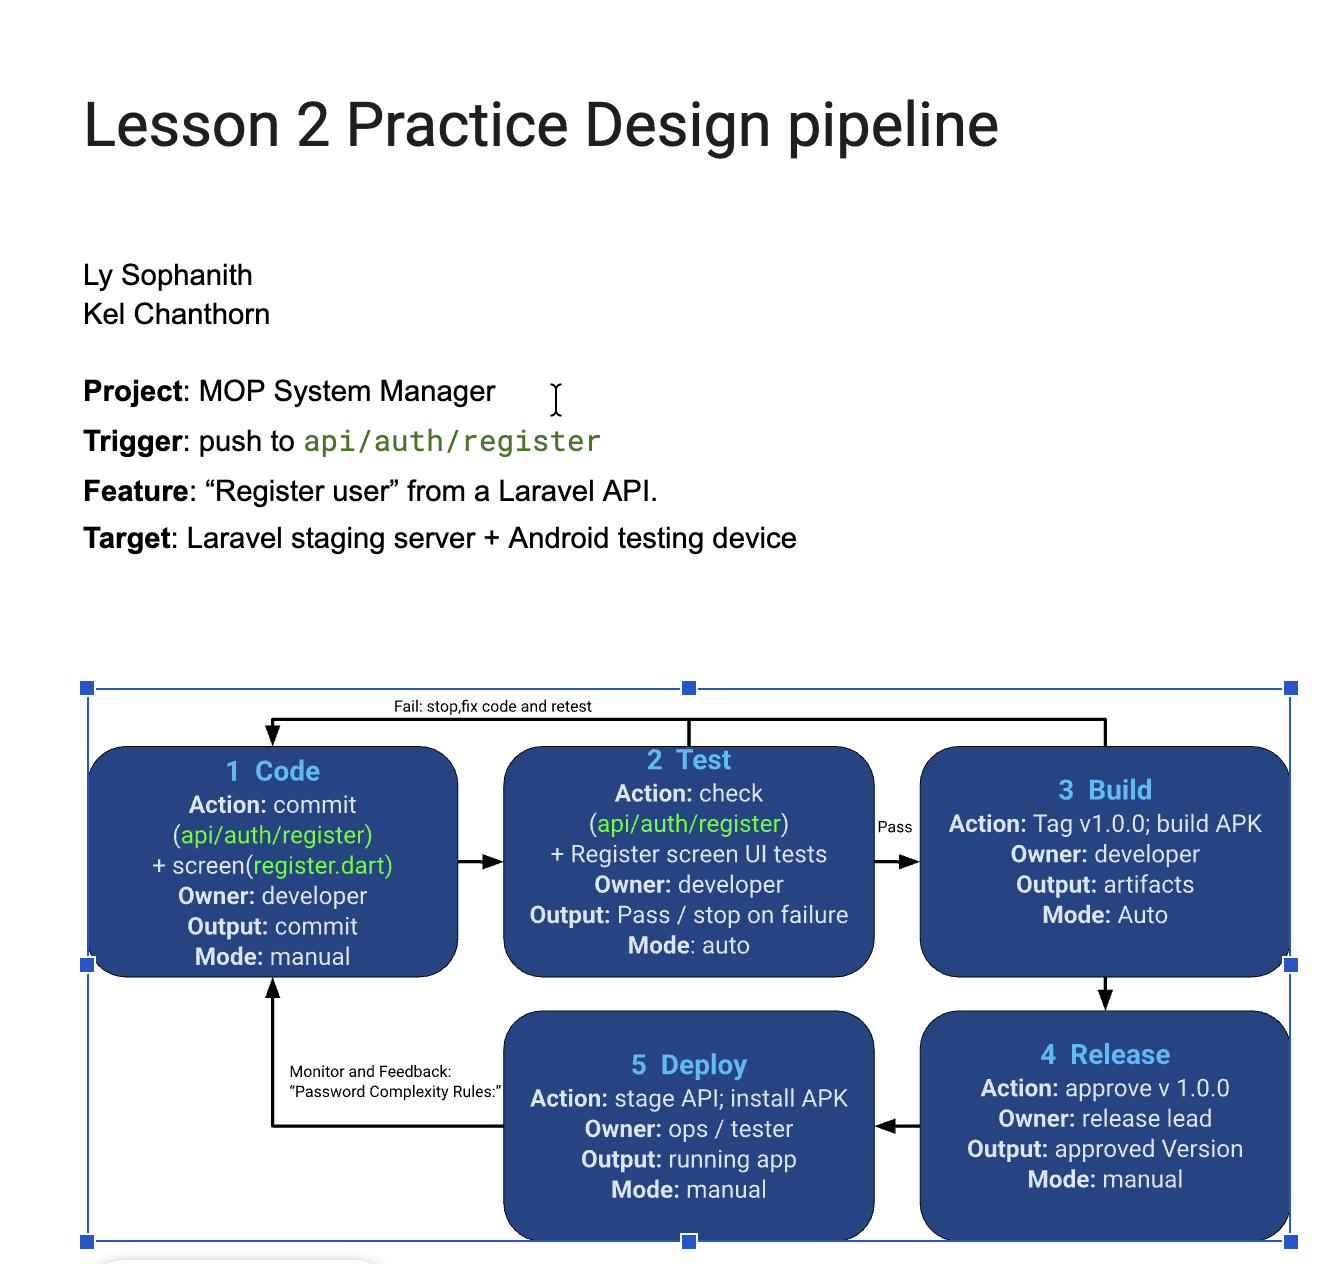
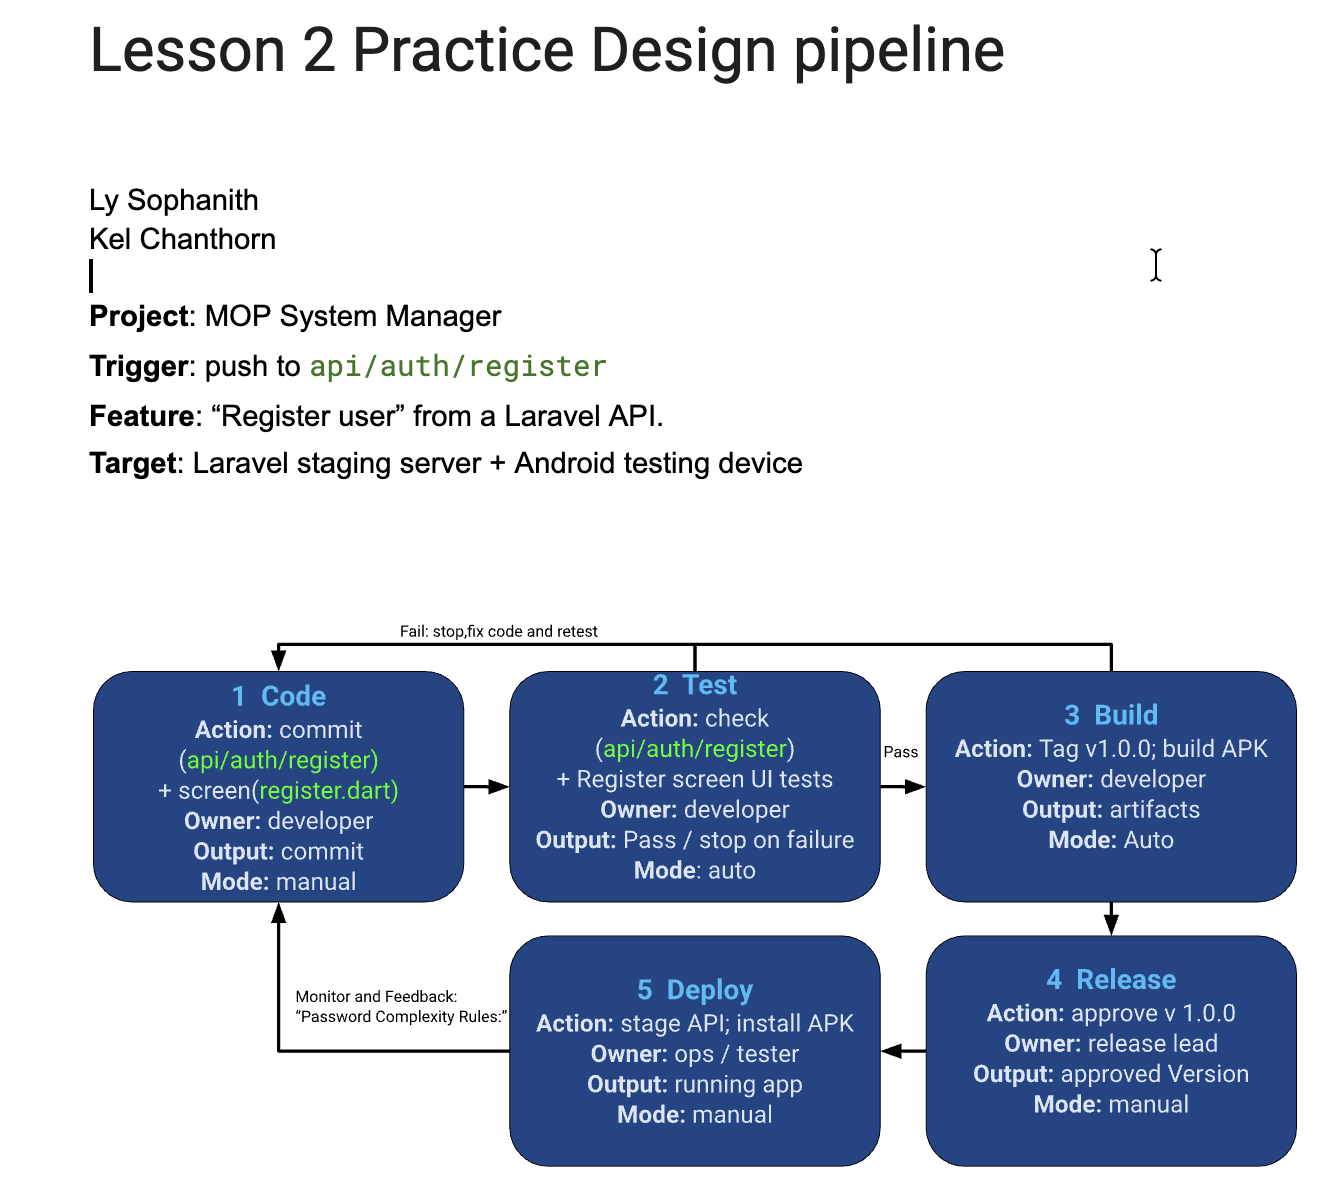
Add files via upload

diff --git a/Ly sophanith.md b/Ly sophanith.md
@@ -8,8 +8,8 @@
 
 ### Pipeline design
 Code -> Test -> Build -> Release -> Deploy
-1. Code: [commit API (api/auth/register) + screen(register.dart)] | [developer] | [commit] | [manual]
-2. Test: [check API (api/auth/register) + Register screen UI tests] | [developer] | [Pass / stop on failure] | [auto]
+1. Code: [commit (api/auth/register) + screen(register.dart)] | [developer] | [commit] | [manual]
+2. Test: [check (api/auth/register) + Register screen UI tests] | [developer] | [Pass / stop on failure] | [auto]
 3. Build: [Tag v1.0.0; build APK] | [developer] | [artifacts] | [auto]
 4. Release: [approve v 1.0.0] | [release lead] | [approved Version] | [manual]
 5. Deploy: [stage API; install APK] | [ops / tester] | [running app] | [manual]
@@ -17,4 +17,4 @@ Code -> Test -> Build -> Release -> Deploy
 On test/build failure: ... | Release approval by: ...
 After deployment, check: ... | If it fails: ...
 Feedback for the next change: ...
-Optional drawing: ![My pipeline](pipeline.png)
+Optional drawing: ![https://github.com/sophanithly89/devops-class-laravel-flutter-sample](pipeline.png)
